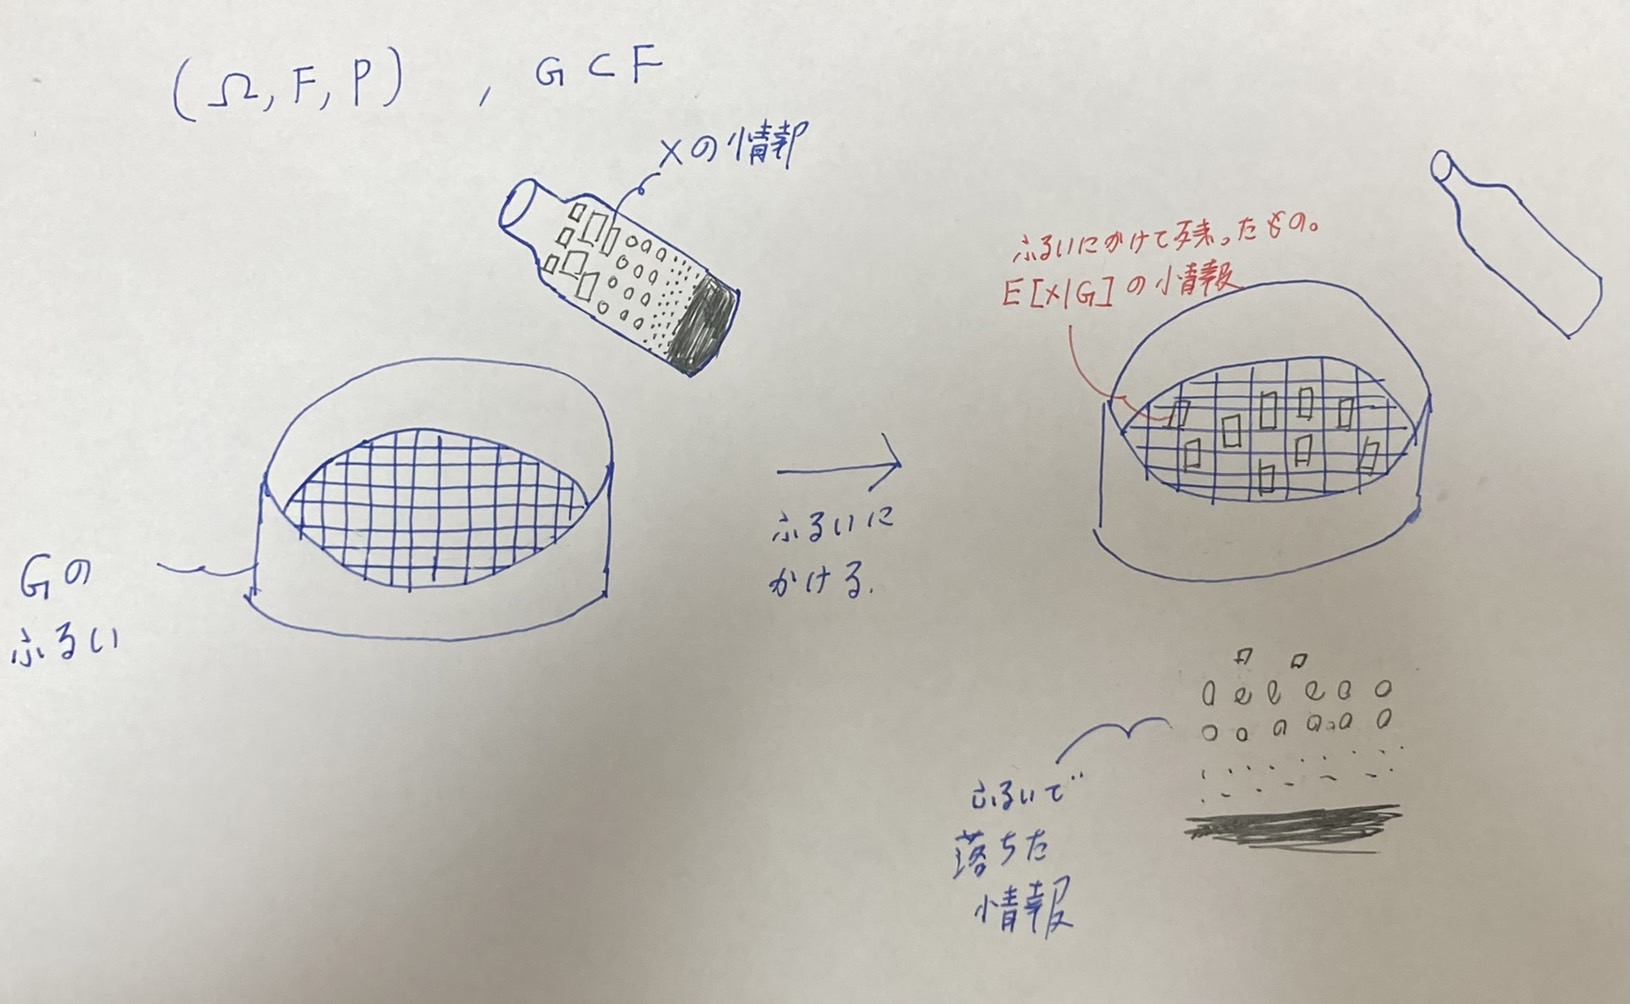
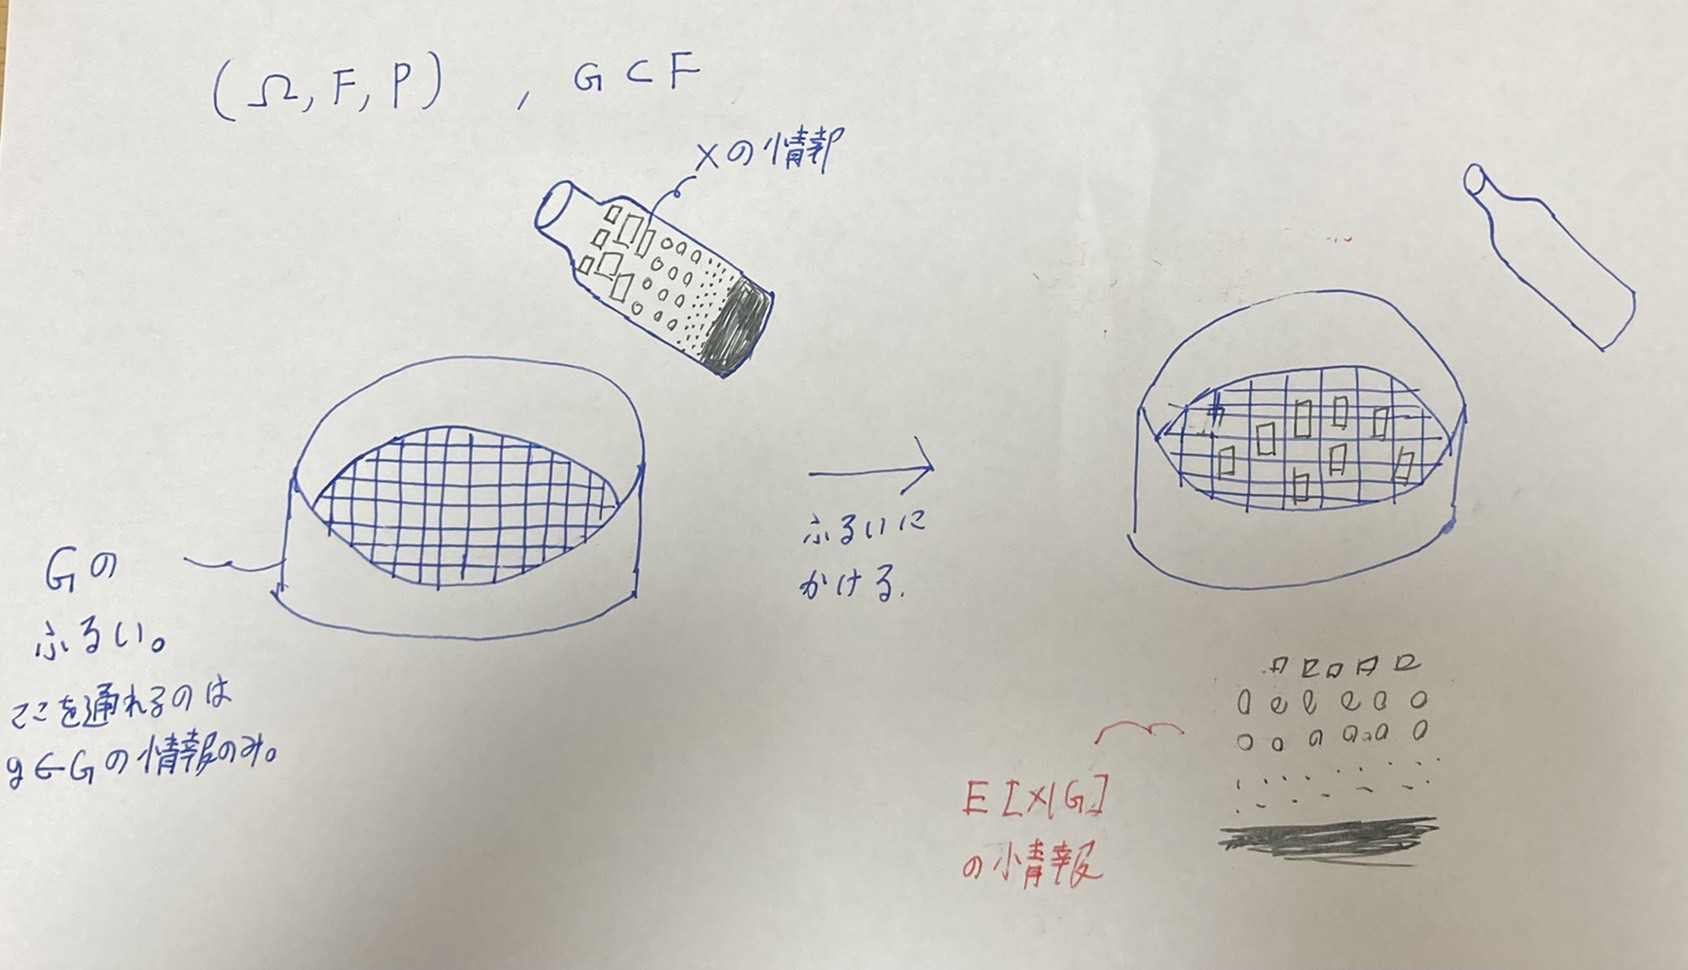
commit

diff --git a/測度論的確率論/測度論的確率論.md b/測度論的確率論/測度論的確率論.md
@@ -703,7 +703,15 @@ $$
 $$
 を満たす唯一のものである。
 
-## 条件付期待値のイメージと性質
+## 条件付期待値のイメージ
 
-イメージはまさに$L^2$の直交射影としてのイメージが優秀になるが$L^1$では成り立たないので他のアプローチを考える。ここで __シグマ加法族の細かさを情報多さ__ だと考える。そして確率変数$X$は$σ(X)$の情報の多さを持つものだと考える。そして$E[X|G]$とは$X$を$G$の篩にかけて残ったものと考える。そう考えるといろいろうまくいく。
+イメージはまさに$L^2$の直交射影としてのイメージが優秀になるが$L^1$では成り立たないので他のアプローチを考える。ここで __シグマ加法族の細かさを情報多さ__ だと考える。そして確率変数$X$は$σ(X)$の情報の多さを持つものだと考える。そして画像のように、$E[X|G]$とは$X$を$G$の篩にかけて残ったものと考える。正確には$f\in F$を情報の形と思って$g\in G$と同じ形のものだけ通過する(この場合は下に落ちたものが$E[X|G]$となるので注意)と思った方が __より正確__ かもしれない。がどちらにせよふるいに掛ける感覚。
+
 ![画像がなかった時の代替テキスト](https://yukimaru77.github.io/practice/測度論的確率論/条件付期待値.jpg)
+
+## 条件付期待値の性質
+
+* $E[E[X|G]]=E[X]$(ふるいに掛けてから期待値を取るのと最初から期待値を取るのは同じ)
+* $G\subset H$の時、$E[E[X|H]|G]=E[X|G]$(粗い条件でふるいにかけてからさらにそれを細かい条件でふるいにかけるのと最初から篩にかけるのは同じ)
+* $X$が$G-$可測なら$E[X|G]=X$(篩にかけても同じ)
+* 
